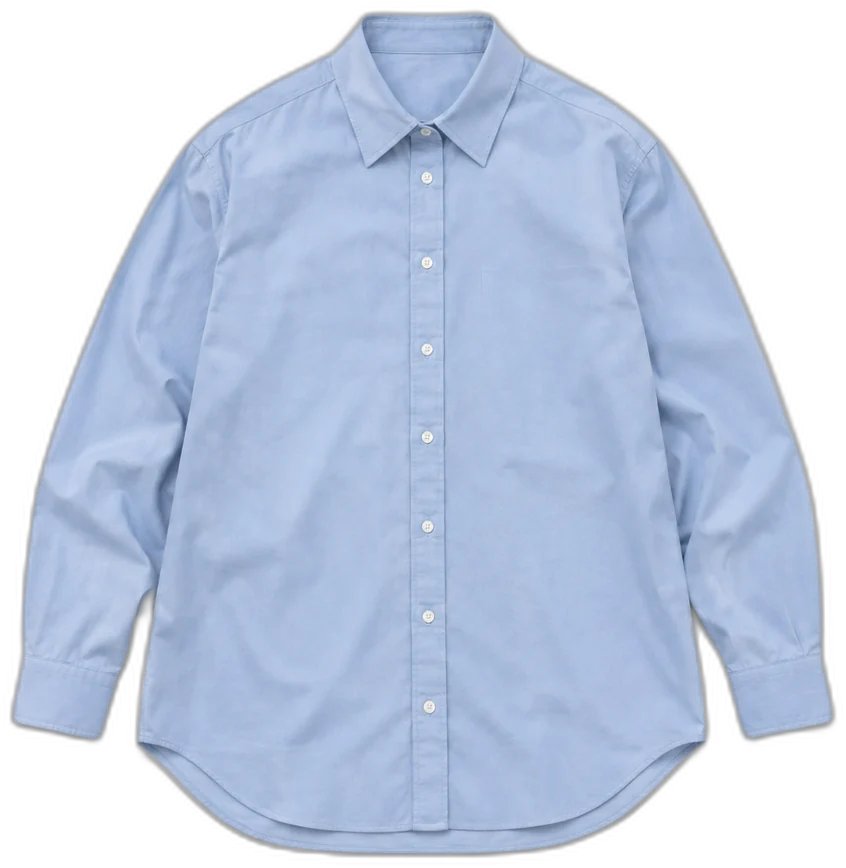
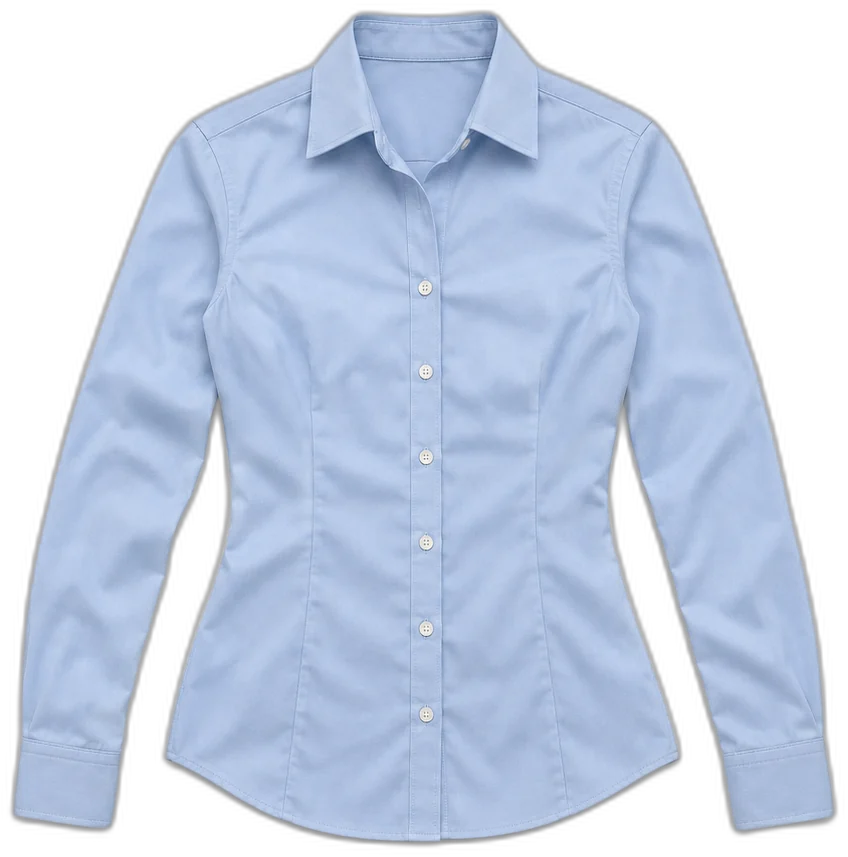
Add photos for 13 new and restyled pieces
Claude-Session: https://claude.ai/code/session_015s7cV9Lso54BtTxnSE6zQs

diff --git a/index.html b/index.html
@@ -1011,11 +1011,15 @@ const PHOTOS = {
   'black-wide-leg-jumpsuit': 'images/capi/black-wide-leg-jumpsuit.webp',
   'black-wool-coat': 'images/capi/black-wool-coat.webp',
   'blue-pinstripe-shirt': 'images/capi/blue-pinstripe-shirt.webp',
+  'blue-striped-wrap-shirt': 'images/capi/blue-striped-wrap-shirt.webp',
+  'blue-tweed-vest-top': 'images/capi/blue-tweed-vest-top.webp',
   'brown-ankle-boots': 'images/capi/brown-ankle-boots.webp',
   'brown-argyle-vest': 'images/capi/brown-argyle-vest.webp',
   'brown-belt': 'images/capi/brown-belt.webp',
   'brown-check-trousers': 'images/capi/brown-check-trousers.webp',
   'brown-corduroy-skirt': 'images/capi/brown-corduroy-skirt.webp',
+  'brown-cropped-trench': 'images/capi/brown-cropped-trench.webp',
+  'brown-denim-bomber': 'images/capi/brown-denim-bomber.webp',
   'brown-knee-boots': 'images/capi/brown-knee-boots.webp',
   'brown-loafers': 'images/capi/brown-loafers.webp',
   'brown-plaid-midi-skirt': 'images/capi/brown-plaid-midi-skirt.webp',
@@ -1023,10 +1027,13 @@ const PHOTOS = {
   'brown-shirt-dress': 'images/capi/brown-shirt-dress.webp',
   'brown-suede-jacket': 'images/capi/brown-suede-jacket.webp',
   'brown-tweed-blazer': 'images/capi/brown-tweed-blazer.webp',
+  'brown-waistcoat': 'images/capi/brown-waistcoat.webp',
   'burgundy-dress': 'images/capi/burgundy-dress.webp',
   'burgundy-scarf': 'images/capi/burgundy-scarf.webp',
+  'burgundy-strapless-top': 'images/capi/burgundy-strapless-top.webp',
   'burgundy-sweater': 'images/capi/burgundy-sweater.webp',
   'burgundy-tshirt': 'images/capi/burgundy-tshirt.webp',
+  'butter-lace-top': 'images/capi/butter-lace-top.webp',
   'camel-coat': 'images/capi/camel-coat.webp',
   'camel-tote': 'images/capi/camel-tote.webp',
   'camel-turtleneck': 'images/capi/camel-turtleneck.webp',
@@ -1039,6 +1046,7 @@ const PHOTOS = {
   'cream-lace-maxi-dress': 'images/capi/cream-lace-maxi-dress.webp',
   'cream-linen-trousers': 'images/capi/cream-linen-trousers.webp',
   'cream-peter-pan-blouse': 'images/capi/cream-peter-pan-blouse.webp',
+  'cream-polka-halter-top': 'images/capi/cream-polka-halter-top.webp',
   'cream-silk-blouse': 'images/capi/cream-silk-blouse.webp',
   'cream-slingbacks': 'images/capi/cream-slingbacks.webp',
   'cream-teddy-coat': 'images/capi/cream-teddy-coat.webp',
@@ -1048,6 +1056,7 @@ const PHOTOS = {
   'denim-mini-skirt': 'images/capi/denim-mini-skirt.webp',
   'denim-shirt': 'images/capi/denim-shirt.webp',
   'denim-shorts': 'images/capi/denim-shorts.webp',
+  'forest-knit-top': 'images/capi/forest-knit-top.webp',
   'gold-chain-necklace': 'images/capi/gold-chain-necklace.webp',
   'gold-clutch': 'images/capi/gold-clutch.webp',
   'gold-hoops': 'images/capi/gold-hoops.webp',
@@ -1075,6 +1084,7 @@ const PHOTOS = {
   'navy-blazer': 'images/capi/navy-blazer.webp',
   'navy-cable-sweater': 'images/capi/navy-cable-sweater.webp',
   'navy-coat': 'images/capi/navy-coat.webp',
+  'navy-denim-mini-dress': 'images/capi/navy-denim-mini-dress.webp',
   'navy-oversized-tshirt': 'images/capi/navy-oversized-tshirt.webp',
   'navy-pleated-mini-skirt': 'images/capi/navy-pleated-mini-skirt.webp',
   'navy-polka-dot-dress': 'images/capi/navy-polka-dot-dress.webp',
@@ -1102,6 +1112,7 @@ const PHOTOS = {
   'red-plaid-shirt': 'images/capi/red-plaid-shirt.webp',
   'red-satin-slip-dress': 'images/capi/red-satin-slip-dress.webp',
   'red-silk-neck-scarf': 'images/capi/red-silk-neck-scarf.webp',
+  'red-strapless-top': 'images/capi/red-strapless-top.webp',
   'retro-running-sneakers': 'images/capi/retro-running-sneakers.webp',
   'rust-tiered-maxi-skirt': 'images/capi/rust-tiered-maxi-skirt.webp',
   'sage-midi-dress': 'images/capi/sage-midi-dress.webp',
